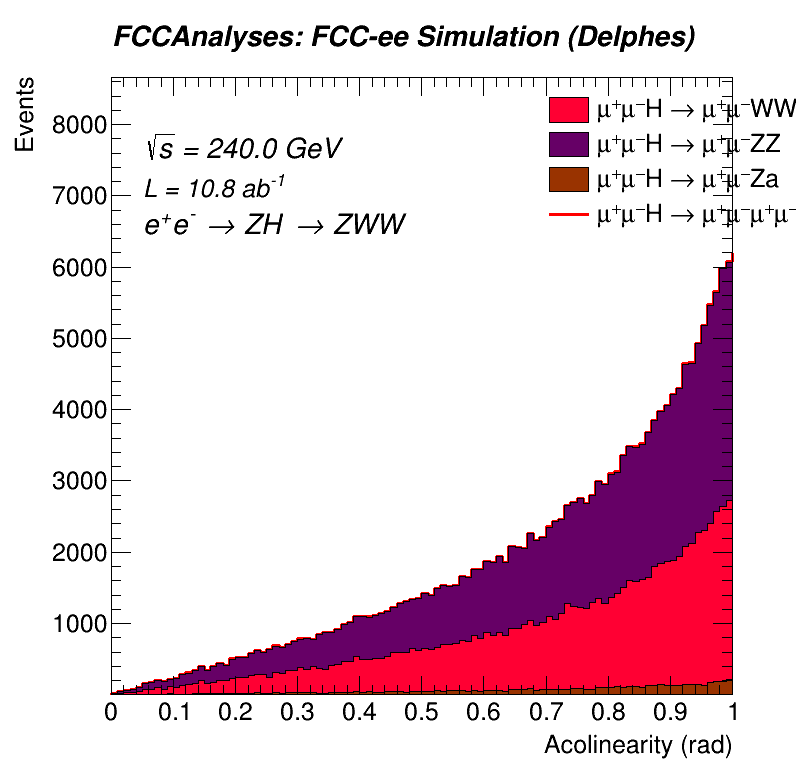
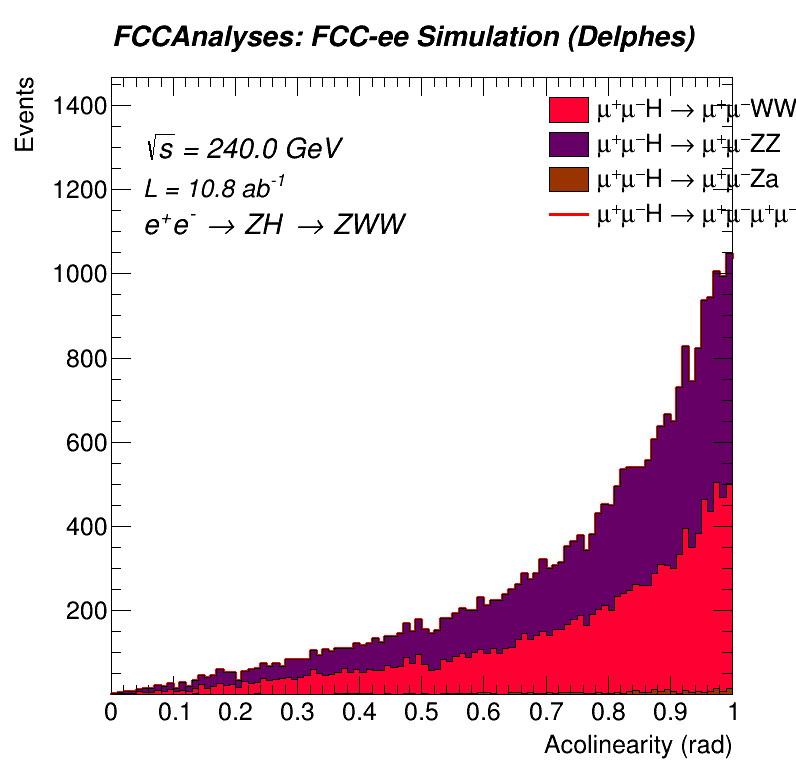
figuring out MissingET.energy

diff --git a/h_ww/H_ww_ee.py b/h_ww/H_ww_ee.py
@@ -98,7 +98,7 @@ def build_graph(df, dataset):
     #Here, only muons, need to add the relevant particles for the four different outcome states
     #we are focusing on...
     df = df.Alias("Particle0", "Particle#0.index")
-    df = df.Alias("Particle1", "Particle#1.index")
+    df = df.Alias("Particle1", "Particle#1.index")  #these why are these even here? unnecessary
     df = df.Alias("MCRecoAssociations0", "MCRecoAssociations#0.index")
     df = df.Alias("MCRecoAssociations1", "MCRecoAssociations#1.index")
     df = df.Alias("Muons", "Muon#0.index")
@@ -259,37 +259,37 @@ def build_graph(df, dataset):
     df = df.Define("cut4", "4")
     hists.append(df.Histo1D(("cutFlow", "", *bins_count), "cut4"))
 
-    #########
-    ### CUT 5:getting rid of events with the additional high-momentum leptons to suppress WW and ZZ backgrounds
+    #########  THIS CUT AINT WORKIN'
+    ### CUT 5:getting rid of events with the additional high-momentum leptons to suppress WW, qqqq gone
     #########
     df = df.Define("additional_muons", "FCCAnalyses::ReconstructedParticle::remove(muons_all, muons)")  #excluding muons selected so far
     df = df.Define("additional_muons_p", "FCCAnalyses::ReconstructedParticle::get_p(additional_muons)")  #remaining ones' momentum
-    df = df.Filter("Sum(additional_muons_p > 10.0) == 0")  # events with additional high-pT muons (need to adjust)
+    df = df.Filter("Sum(additional_muons_p) <= 6.0")  # events with additional high-pT muons (need to adjust)
     df = df.Define("cut5", "5")
     hists.append(df.Histo1D(("cutFlow", "", *bins_count), "cut5"))
 
     #########
     ### CUT 6:  looking at Zγ events, counting photon #s, removing events with energetic photons
-    #########
+    ######### #this works but brings down the signal line together with the background
     #photon alias
     df = df.Alias("Photons", "Photon#0.index")
     df = df.Define("photons", "FCCAnalyses::ReconstructedParticle::get(Photons, ReconstructedParticles)") #photon object, get transverse momentum
     df = df.Define("photons_pT", "FCCAnalyses::ReconstructedParticle::get_pt(photons)")
     df = df.Define("n_photons", "FCCAnalyses::ReconstructedParticle::get_n(photons)") #getn
-    df = df.Filter("n_photons == 0 || Max(photons_pT) < 10") #requiring no photons or photons with pT < 10 GeV
+    df = df.Filter("n_photons == 0 || Max(photons_pT) < 4") #requiring no photons or photons with pT < 4GeV
     df = df.Define("cut6", "6")
     hists.append(df.Histo1D(("cutFlow", "", *bins_count), "cut6"))
 
     #########
     ### CUT 7:supressing WW background by requiring missing energy consistent with neutrinos
-    #########
-    # Calculate the sum of reconstructed particle energies
-    df = df.Define("reco_particle_energies", "FCCAnalyses::ReconstructedParticle::get_e(ReconstructedParticles)")
-    df = df.Define("sum_reco_energy", "Sum(reco_particle_energies)")
-    df = df.Define("miss_e", f"{240.0} - sum_reco_energy") #calculating missing energy
-    df = df.Filter("miss_e > 10.0")  #this 10 is just a test value, need to adjust
-    df = df.Define("cut_miss_e", "7")
+    ######### remember, the cut means only keep events that have this...
+    df = df.Alias("MissingETs", "MissingET#0.index") 
+    df = df.Define("missingETs", "FCCAnalyses::ReconstructedParticle::get(MissingETs, MissingET)") #get the missing energy
+    df = df.Define("missingETs_E", "FCCAnalyses::ReconstructedParticle::get_e(missingETs)")
+    df = df.Filter("missingETs_E > 20.0 && missingETs_E < 50.0")
+    df = df.Define("cut_miss_e", "7") 
     hists.append(df.Histo1D(("cutFlow", "", *bins_count), "cut_miss_e"))
+    
 
     #########
     ### CUT : Cutting down the WW background's, looking at the missing transverse energy 
